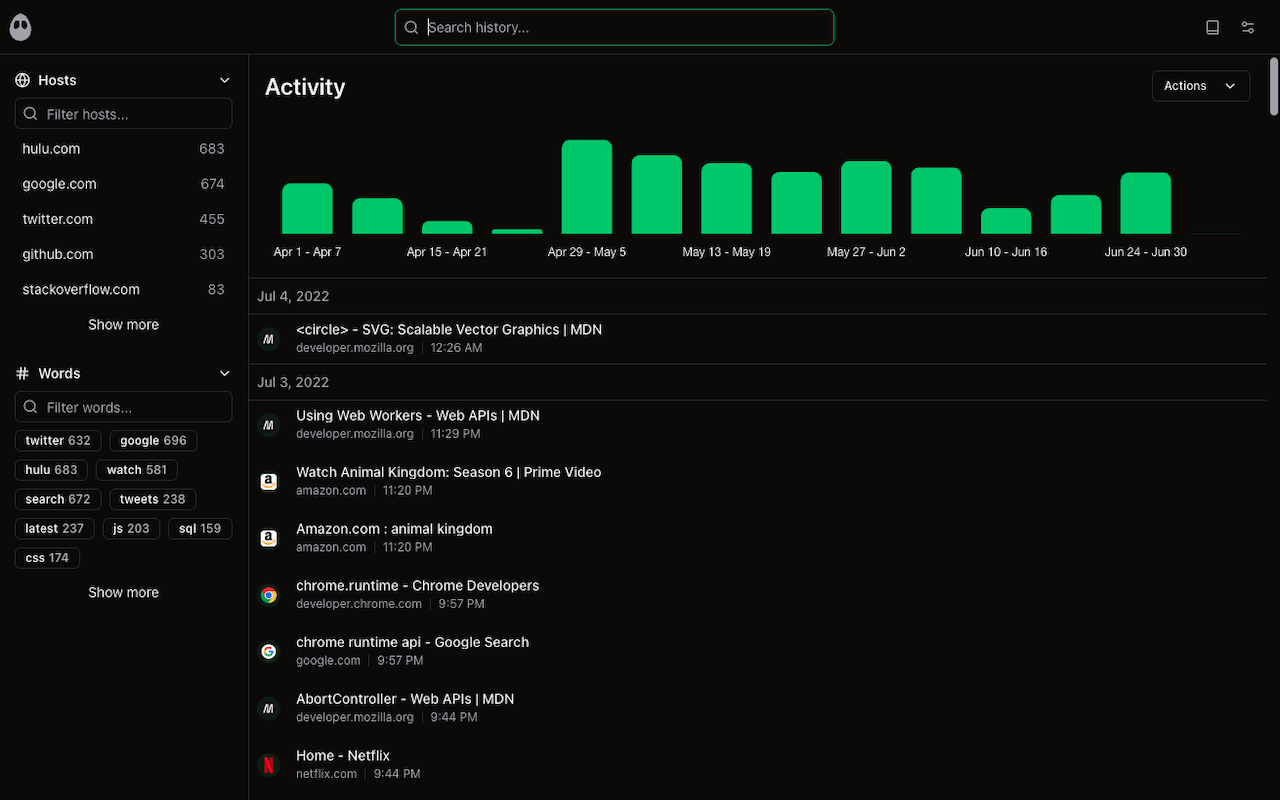
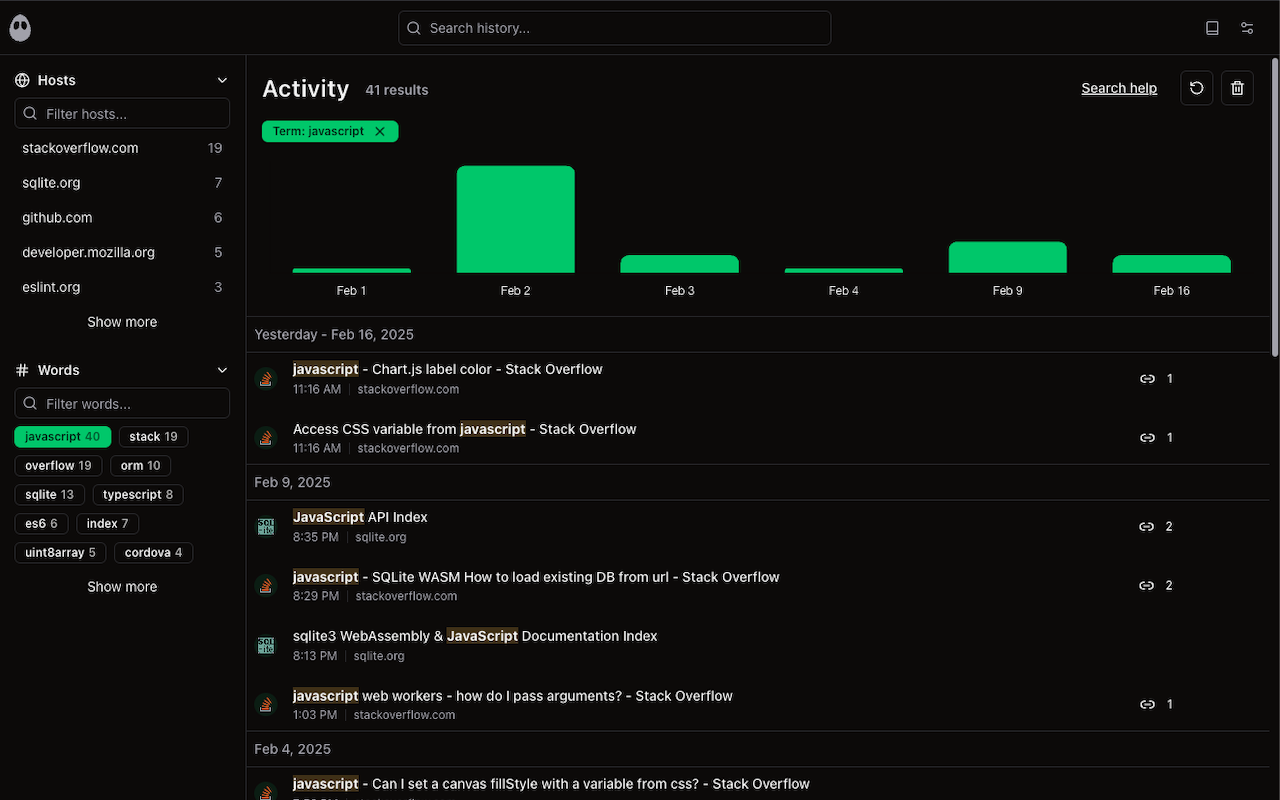
release 2.2.0

diff --git a/CHANGELOG.md b/CHANGELOG.md
@@ -6,6 +6,32 @@ and this project adheres to [Semantic Versioning](https://semver.org/spec/v2.0.0
 
 ## Unreleased
 
+## [2.2.0] - 2025-02-17
+
+### Added
+
+- Added "Search Help" w/ tips about supported constructs in the search syntax.
+
+- Added "show full urls" setting to allow showing the full URL in search rather than just the host.
+
+- All filters currently being applied now appear at the top of the search and can be removed one-by-one.
+
+### Changed
+
+- Removed all dropdowns--buttons are always visible. All buttons should have tooltips now as well.
+
+- Opening details of a session opens in a modal instead of navigating pages, losing the state of the current search.
+
+- Selecting a host does not filter down the list of hosts--other filters still apply to the host list.
+
+### Fixed
+
+- Clicking on search bar from settings page now navigates to search--previously this would happen on typing the first character and the search would be lost.
+
+- Fixed deletion not working in the demo app.
+
+- Fixed migrations not working in the demo app.
+
 ## [2.1.0] - 2025-02-16
 
 ### Changed
